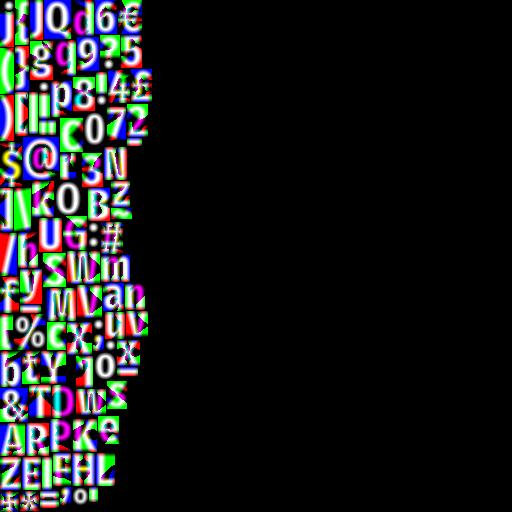
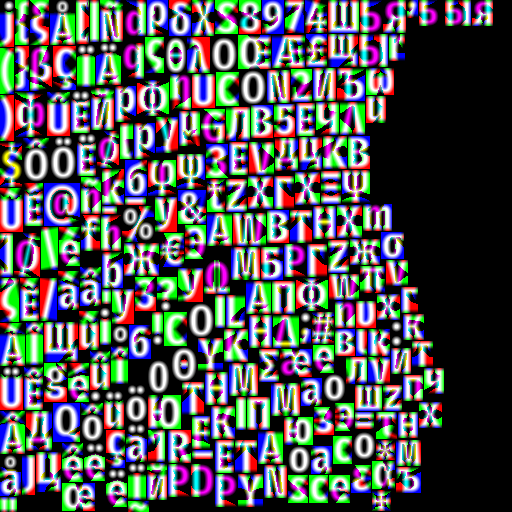
slight aesthetic improvements

diff --git a/src/UI/browser.js b/src/UI/browser.js
@@ -15,10 +15,11 @@ import arrowRightURL from '../../assets/UI-images/arrow-right.png';
 
 const PADDING_X = 0.04;
 const PADDING_Y = 0.04;
-const sectionsDivision = 0.65; // [ 0 - 1 ] division between left and right sections
-const navigationHeight = 0.2; // [ 0 - 1 ] height of the navigation bar at the bottom of the left panel
-const infoPadding = 0.05;
+const sectionsDivision = 0.72; // [ 0 - 1 ] division between left and right sections
+const navigationHeight = 0.22; // [ 0 - 1 ] height of the navigation bar at the bottom of the left panel
+const infoPadding = 0.03;
 const descriptionCharLimit = 150;
+const cellImgTxtDiv = 0.9; // [ 0 - 1 ] Y division between a cell image and the name of the puzzle right bellow
 
 const textureLoader = new THREE.TextureLoader();
 
@@ -40,6 +41,7 @@ const browser = new ThreeMeshUI.Block( {
 const leftContainer = new ThreeMeshUI.Block( {
 	width: browser.width * sectionsDivision,
 	height: browser.height,
+	padding: 0.03,
 	backgroundColor: new THREE.Color( 'blue' ),
 	backgroundOpacity: 1
 } );
@@ -57,8 +59,8 @@ browser.add( leftContainer, rightContainer );
 // create two rows inside the left container, to host the model cells
 
 const rowOpt = {
-	width: leftContainer.width,
-	height: leftContainer.height * ( 1 - navigationHeight ) * 0.5,
+	width: leftContainer.width - 2 * leftContainer.padding,
+	height: ( leftContainer.height - 2 * leftContainer.padding ) * ( 1 - navigationHeight ) * 0.5,
 	backgroundColor: new THREE.Color( 'yellow' ),
 	backgroundOpacity: 1,
 	contentDirection: "row"
@@ -72,16 +74,18 @@ leftContainer.add( cellRow1, cellRow2 );
 // model cells
 
 const cellOpt = {
-	width: leftContainer.width * 0.5,
+	width: rowOpt.width * ( 1 / 3 ),
 	height: rowOpt.height,
 	padding: 0.035,
 	backgroundColor: new THREE.Color( 'purple' ),
 	backgroundOpacity: 1
 }
 
+const cellImgWidth = Math.min( cellOpt.width - 2 * cellOpt.padding, ( cellOpt.width - 2 * cellOpt.padding ) * cellImgTxtDiv );
+
 const cellImgOpt = {
-	width: Math.min( ( cellOpt.height - cellOpt.padding * 2 ) * 0.8, cellOpt.width ),
-	height: ( cellOpt.height - cellOpt.padding * 2 ) * 0.8,
+	width: cellImgWidth,
+	height: cellImgWidth,
 	backgroundColor: params.white,
 	backgroundOpacity: 1,
 	justifyContent: 'end',
@@ -90,7 +94,7 @@ const cellImgOpt = {
 
 const cellTextContOpt = {
 	width: cellOpt.width,
-	height: ( cellOpt.height - cellOpt.padding * 2 ) * 0.2,
+	height: ( cellOpt.height - cellOpt.padding * 2 ) * 0.1,
 	backgroundColor: new THREE.Color( 'orange' ),
 	backgroundOpacity: 1,
 	justifyContent: 'center',
@@ -113,11 +117,13 @@ function Cell() {
 	const cell = new ThreeMeshUI.Block( cellOpt );
 	const img = new ThreeMeshUI.Block( cellImgOpt );
 	const textContainer = new ThreeMeshUI.Block( cellTextContOpt );
-	const text = new ThreeMeshUI.Text( {} );
+	const text = new ThreeMeshUI.Text( { fontSize: 0.045 } );
 	const piecesInfoCell = new ThreeMeshUI.Block( cellPiecesInfoOpt );
 	const piecesText = new ThreeMeshUI.Text( {} );
 
 	cell.populate = function ( data ) {
+
+		console.log( data )
 
 		text.set( { content: data.artName } );
 		piecesText.set( { content: String( data.piecesNumber ) } );
@@ -140,8 +146,8 @@ function Cell() {
 
 }
 
-cellRow1.add( Cell(), Cell() );
-cellRow2.add( Cell(), Cell() );
+cellRow1.add( Cell(), Cell(), Cell() );
+cellRow2.add( Cell(), Cell(), Cell() );
 
 // create navigation bar
 
@@ -260,14 +266,14 @@ function InfoLine( tall ) {
 
 	const line = new ThreeMeshUI.Block( {
 		width: rightContainer.width - ( infoPadding * 2 ),
-		height: tall ? 0.2 : 0.05,
+		height: tall ? 0.3 : 0.05,
 		backgroundColor: new THREE.Color( 'grey' ),
 		backgroundOpacity: 1,
 		margin: infoPadding * 0.25,
 		justifyContent: tall ? undefined : 'center'
 	} );
 
-	const text = new ThreeMeshUI.Text( { fontSize: 0.03, content: 'blabla' } );
+	const text = new ThreeMeshUI.Text( { fontSize: 0.033 } );
 
 	line.userData.text = text
 
@@ -334,7 +340,7 @@ browser.init = function () {
 
 		let lastChunk = chunks[ chunks.length - 1 ];
 
-		if ( lastChunk.length == 4 ) {
+		if ( lastChunk.length == 6 ) {
 
 			lastChunk = [];
 			chunks.push( lastChunk );
